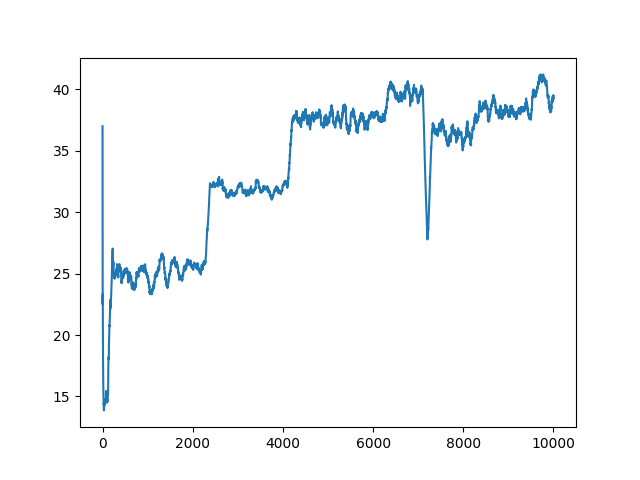
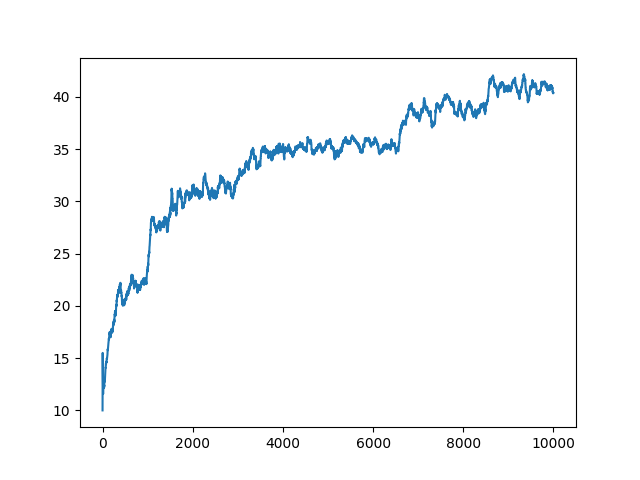
Implemented start of decaying epsilon

diff --git a/gymnasium_env/envs/v0_qlearning.py b/gymnasium_env/envs/v0_qlearning.py
@@ -1,13 +1,11 @@
 import gymnasium as gym
 import numpy as np
-import matplotlib.pyplot as plt
-import random
 import pickle
-#import stable.baseliens3 import A2C
 import v0_thin_ice_env as ti #including it so it registers 
 import os
 
 from thin_ice_training_agent import ThinIceTrainingAgent
+from gymnasium_env.envs.components.decaying_epsilon import DecayingEpsilon
 
 class ThinIceQLearningAgent(ThinIceTrainingAgent):
     def __init__(self, env_id: str ='thin-ice-v0', level_str: str ='Level0.txt'):
@@ -26,19 +24,21 @@ class ThinIceQLearningAgent(ThinIceTrainingAgent):
         #keeping count of number of stesp per episode (is it becoming more efficient or not)
         number_of_steps = np.zeros(n_episodes)
 
+        decaying_epsilon = DecayingEpsilon(start_epsilon=epsilon, end_epsilon=0.05, decay_rate=4000000)
+
         for i in range(n_episodes):
             print(f'Episode: {i}')
 
             #Reset env before each episode
             state = env.reset()[0]
             step_count = 0
-            terminated = False #terminated just means found target
+            terminated = False
 
             while (not terminated):
                 step_count += 1
 
                 # Choose action from state based on epsilon-greedy policy
-                if np.random.rand() < epsilon:
+                if np.random.rand() < decaying_epsilon.get_epsilon():
                     # From the state value, get the available actions mask, which is an int where each bit represents an action
                     available_actions_mask = env.unwrapped.get_available_actions_mask(state)
 
@@ -65,6 +65,8 @@ class ThinIceQLearningAgent(ThinIceTrainingAgent):
                 state = next_state
             
             number_of_steps[i] = step_count
+
+            decaying_epsilon.update(i)
 
         #for loop done
         env.close()
@@ -106,7 +108,7 @@ class ThinIceQLearningAgent(ThinIceTrainingAgent):
 
 if __name__ == '__main__':
     agent: ThinIceQLearningAgent = ThinIceQLearningAgent('thin-ice-v0', 'level_6.txt')
-    agent.train(n_episodes=10000, step_size=0.1, gamma=1, epsilon=0.1)
+    agent.train(n_episodes=10000, step_size=0.1, gamma=1, epsilon=0.4)
     agent.deploy(render=True)
     agent.visualize_policy()
 

diff --git a/gymnasium_env/envs/components/decaying_epsilon.py b/gymnasium_env/envs/components/decaying_epsilon.py
@@ -1,0 +1,16 @@
+class DecayingEpsilon:
+    def __init__(self, start_epsilon: float, end_epsilon: float, decay_rate: float):
+        self.start_epsilon = start_epsilon
+        self.end_epsilon = end_epsilon
+        self.decay_rate = decay_rate
+        self.epsilon = start_epsilon
+    
+    def set_epsilon(self, epsilon: float):
+        self.epsilon = epsilon
+    
+    def get_epsilon(self) -> float:
+        return self.epsilon
+
+    def update(self, episode: int):
+        y = (episode ** 2) / (self.decay_rate + episode)
+        self.epsilon = max(self.end_epsilon, self.start_epsilon / (1 + y))

diff --git a/gymnasium_env/envs/v0_dynaq.py b/gymnasium_env/envs/v0_dynaq.py
@@ -1,0 +1,11 @@
+import gymnasium as gym
+import numpy as np
+import pickle
+import v0_thin_ice_env as ti #including it so it registers 
+import os
+
+from thin_ice_training_agent import ThinIceTrainingAgent
+
+class ThincIceDynaQAgent(ThinIceTrainingAgent):
+    def __init__(self, env_id: str ='thin-ice-v0', level_str: str ='Level0.txt'):
+        super().__init__(env_id, level_str)
